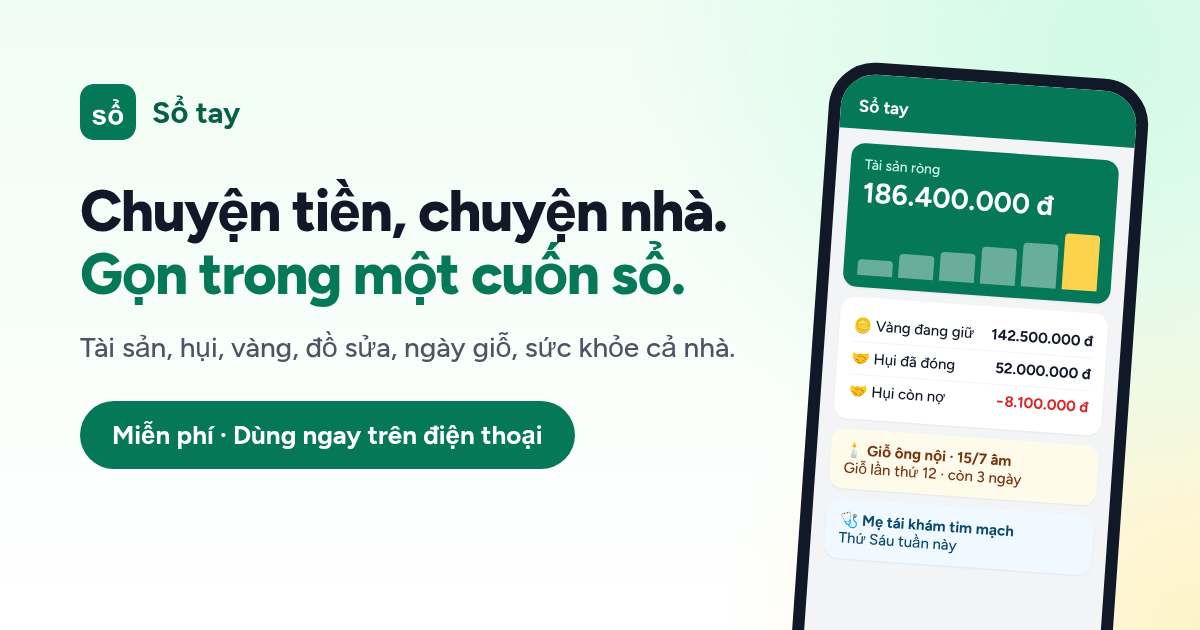
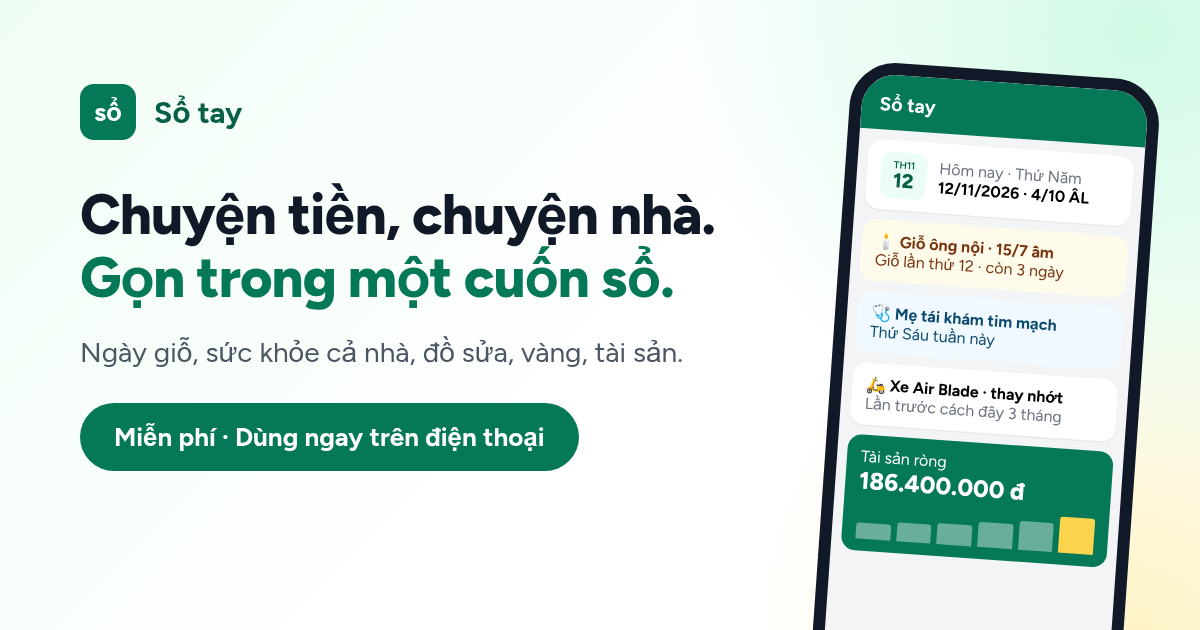
Trang chủ Sổ tay: đưa ngày nhớ, sức khỏe lên trước, bớt chữ hụi
- Giới thiệu, ảnh điện thoại đầu trang và ảnh chia sẻ: bỏ dòng hụi, thêm hôm nay âm lịch, giỗ, tái khám, sửa xe
- Các cuốn sổ mở sẵn Ngày nhớ, Hụi xếp cuối; FAQ và bước 2 không còn nhắc hụi
- Tiêu đề, mô tả SEO, manifest và câu xóa tài khoản dùng chữ chung

diff --git a/resources/views/welcome.blade.php b/resources/views/welcome.blade.php
@@ -1,16 +1,16 @@
 @php
     /** @var array<string, string> $lunarLookup */
     $brand = config('app.name');
-    $title = $brand.' · Sổ tay tài chính & gia đình: tài sản, hụi, vàng, ngày giỗ, sức khỏe';
-    $description = 'Ứng dụng miễn phí ghi chép việc nhà: tổng tài sản, sổ hụi, sổ vàng, sửa chữa đồ dùng, ngày giỗ theo âm lịch và sức khỏe cả nhà. Tự tính, tự nhắc qua email.';
+    $title = $brand.' · Sổ tay gia đình: ngày giỗ âm lịch, sức khỏe, sửa chữa, vàng, tài sản';
+    $description = 'Ứng dụng miễn phí ghi chép việc nhà: ngày giỗ theo âm lịch, sức khỏe cả nhà, sửa chữa đồ dùng, vàng và tổng tài sản. Tự tính, tự nhắc qua email.';
 
     // Các cuốn sổ trong phần "Mỗi việc một cuốn sổ": khóa tab, tên, ba điểm chính.
     $books = [
-        'hui' => ['🤝', 'Hụi', [['✅', 'Kỳ này đóng bao nhiêu'], ['📈', 'Hốt kỳ nào thì lời'], ['👥', 'Chủ hụi: biết ngay ai chưa đóng']]],
-        'vang' => ['🪙', 'Vàng', [['⚖', 'Ghi theo chỉ, từng món'], ['💹', 'Nhập giá tiệm, biết lời lỗ'], ['🧾', 'Bán một phần, vốn vẫn khớp']]],
-        'sua' => ['🔧', 'Sửa chữa', [['🛵', 'Xe, điện thoại, laptop...'], ['⏱', 'Món thay dùng được bao lâu'], ['📷', 'Giữ ảnh hóa đơn, hạn bảo hành']]],
         'ngay' => ['🕯', 'Ngày nhớ', [['🌙', 'Ngày âm tự đổi sang dương'], ['🔢', 'Tự đếm giỗ lần thứ mấy, tròn mấy tuổi'], ['📧', 'Nhắc trước, bạn chọn số ngày']]],
         'suc' => ['🩺', 'Sức khỏe', [['👨👩👧', 'Sổ riêng cho từng người'], ['📷', 'Giữ ảnh đơn thuốc, kết quả'], ['🔔', 'Nhắc ngày tái khám']]],
+        'sua' => ['🔧', 'Sửa chữa', [['🛵', 'Xe, điện thoại, laptop...'], ['⏱', 'Món thay dùng được bao lâu'], ['📷', 'Giữ ảnh hóa đơn, hạn bảo hành']]],
+        'vang' => ['🪙', 'Vàng', [['⚖', 'Ghi theo chỉ, từng món'], ['💹', 'Nhập giá tiệm, biết lời lỗ'], ['🧾', 'Bán một phần, vốn vẫn khớp']]],
+        'hui' => ['🤝', 'Hụi', [['✅', 'Kỳ này đóng bao nhiêu'], ['📈', 'Hốt kỳ nào thì lời'], ['👥', 'Chủ hụi: biết ngay ai chưa đóng']]],
     ];
 
     // Ngày âm hay tra: tên, ngày, tháng.
@@ -66,7 +66,7 @@
                             Chuyện tiền, chuyện nhà.<br>
                             <span class="text-emerald-700">Gọn trong một cuốn sổ.</span>
                         </h1>
-                        <p class="mt-4 text-lg text-gray-600">Tài sản, hụi, vàng, đồ sửa, ngày giỗ, sức khỏe cả nhà. App tự tính, tự đổi lịch âm, nhắc trước qua email.</p>
+                        <p class="mt-4 text-lg text-gray-600">Ngày giỗ, sức khỏe cả nhà, đồ sửa, vàng, tài sản. App tự tính, tự đổi lịch âm, nhắc trước qua email.</p>
                         <div class="mt-7 flex flex-col gap-3 sm:flex-row sm:justify-center md:justify-start">
                             <a href="{{ route('register') }}" class="rounded-full bg-emerald-700 px-7 py-3.5 text-center font-semibold text-white shadow-lg shadow-emerald-700/30 transition hover:-translate-y-0.5 hover:bg-emerald-800">Mở sổ miễn phí</a>
                             <a href="#cac-so" class="rounded-full border border-emerald-700 px-7 py-3.5 text-center font-semibold text-emerald-700 hover:bg-emerald-50">Xem có gì →</a>
@@ -74,7 +74,25 @@
                     </div>
 
                     <div class="animate-float">
-                        <x-landing.phone label="Trang tổng tài sản: tài sản ròng, biểu đồ theo tháng và ngày nhớ sắp tới">
+                        <x-landing.phone label="Sổ tay: hôm nay theo âm lịch, ngày giỗ, lịch tái khám và tài sản ròng">
+                            <div class="flex items-center gap-3 rounded-xl bg-white p-3 shadow-sm">
+                                <div class="flex h-10 w-10 shrink-0 flex-col items-center justify-center rounded-lg bg-emerald-50 text-emerald-800">
+                                    <span class="text-[9px] font-semibold">TH11</span><span class="font-bold leading-none">12</span>
+                                </div>
+                                <div><div class="text-gray-500">Hôm nay · Thứ Năm</div><div class="font-semibold">12/11/2026 · 4/10 ÂL</div></div>
+                            </div>
+                            <div class="rounded-xl bg-amber-50 p-3 text-amber-900">
+                                <div class="font-semibold">🕯 Giỗ ông nội · 15/7 âm</div>
+                                <div class="mt-0.5">Giỗ lần thứ 12 · còn 3 ngày</div>
+                            </div>
+                            <div class="rounded-xl bg-sky-50 p-3 text-sky-900">
+                                <div class="font-semibold">🩺 Mẹ tái khám tim mạch</div>
+                                <div class="mt-0.5">Thứ Sáu tuần này</div>
+                            </div>
+                            <div class="rounded-xl bg-white p-3 shadow-sm">
+                                <div class="font-semibold">🛵 Xe Air Blade · thay nhớt</div>
+                                <div class="mt-0.5 text-gray-500">Lần trước cách đây 3 tháng</div>
+                            </div>
                             <div class="rounded-xl bg-emerald-700 p-3 text-white">
                                 <div class="text-emerald-100">Tài sản ròng</div>
                                 <div class="text-xl font-bold">186.400.000 đ</div>
@@ -84,22 +102,6 @@
                                     @endforeach
                                 </div>
                                 <div class="mt-1 flex justify-between text-[10px] text-emerald-100"><span>Th6</span><span>Th11</span></div>
-                            </div>
-                            <ul class="divide-y divide-gray-100 rounded-xl bg-white shadow-sm">
-                                @foreach ([['🪙', 'Vàng đang giữ', '142.500.000 đ', 'text-gray-900'], ['🤝', 'Hụi đã đóng', '52.000.000 đ', 'text-gray-900'], ['🤝', 'Hụi còn nợ', '−8.100.000 đ', 'text-red-600']] as [$icon, $label, $amount, $color])
-                                    <li class="flex items-center justify-between px-3 py-2">
-                                        <span><span aria-hidden="true">{{ $icon }}</span> {{ $label }}</span>
-                                        <span class="font-semibold {{ $color }}">{{ $amount }}</span>
-                                    </li>
-                                @endforeach
-                            </ul>
-                            <div class="rounded-xl bg-amber-50 p-3 text-amber-900">
-                                <div class="font-semibold">🕯 Giỗ ông nội · 15/7 âm</div>
-                                <div class="mt-0.5">Giỗ lần thứ 12 · còn 3 ngày</div>
-                            </div>
-                            <div class="rounded-xl bg-sky-50 p-3 text-sky-900">
-                                <div class="font-semibold">🩺 Mẹ tái khám tim mạch</div>
-                                <div class="mt-0.5">Thứ Sáu tuần này</div>
                             </div>
                         </x-landing.phone>
                     </div>
@@ -123,7 +125,7 @@
             </section>
 
             {{-- 3. Các cuốn sổ: chuyển tab giữa các màn hình --}}
-            <section id="cac-so" class="mx-auto max-w-5xl scroll-mt-16 px-4 py-16" x-data="{ book: 'hui' }">
+            <section id="cac-so" class="mx-auto max-w-5xl scroll-mt-16 px-4 py-16" x-data="{ book: 'ngay' }">
                 <h2 class="text-center text-3xl font-bold">Mỗi việc một cuốn sổ</h2>
                 <p class="mt-2 text-center text-gray-600">Dùng cuốn nào mở cuốn đó. Tất cả gộp về trang Tổng.</p>
                 <div class="-mx-4 mt-6 overflow-x-auto px-4">
@@ -138,7 +140,7 @@
 
                 <div class="mt-10 grid items-center gap-10 md:grid-cols-2">
                     <div>
-                        <div x-show="book === 'hui'" x-transition.opacity.duration.300ms>
+                        <div x-show="book === 'hui'" x-cloak x-transition.opacity.duration.300ms>
                             <x-landing.phone label="Sổ hụi: chi tiết một dây hụi">
                                 <div class="rounded-xl bg-white p-3 shadow-sm">
                                     <div class="font-semibold">Hụi 1tr cô Hoa</div>
@@ -196,7 +198,7 @@
                             </x-landing.phone>
                         </div>
 
-                        <div x-show="book === 'ngay'" x-cloak x-transition.opacity.duration.300ms>
+                        <div x-show="book === 'ngay'" x-transition.opacity.duration.300ms>
                             <x-landing.phone label="Ngày nhớ: giỗ, sinh nhật, kỷ niệm sắp tới">
                                 <ul class="space-y-2">
                                     @foreach ([['🕯', 'Giỗ ông nội', '15/7 âm · Giỗ lần thứ 12', 'còn 3 ngày', 'bg-amber-100 text-amber-800'], ['🎂', 'Sinh nhật bé Na', '20/11 · Tròn 6 tuổi', 'còn 8 ngày', 'bg-emerald-100 text-emerald-800'], ['💍', 'Kỷ niệm ngày cưới', '10/12 · 10 năm', 'còn 28 ngày', 'bg-gray-100 text-gray-600'], ['🕯', 'Giỗ bà ngoại', '8/11 âm · Giỗ lần thứ 5', 'còn 35 ngày', 'bg-gray-100 text-gray-600']] as [$icon, $name, $detail, $left, $badge])
@@ -293,7 +295,7 @@
             <section class="mx-auto max-w-5xl px-4 py-16">
                 <h2 class="text-center text-3xl font-bold">3 bước là xong</h2>
                 <ol class="mt-10 grid gap-4 md:grid-cols-3">
-                    @foreach ([['1', '📝', 'Tạo tài khoản', '30 giây, miễn phí'], ['2', '📚', 'Mở cuốn sổ cần dùng', 'Hụi, vàng, gia đình...'], ['3', '🔔', 'Ghi một lần', 'App tự tính, tự nhắc']] as [$number, $icon, $heading, $sub])
+                    @foreach ([['1', '📝', 'Tạo tài khoản', '30 giây, miễn phí'], ['2', '📚', 'Mở cuốn sổ cần dùng', 'Ngày nhớ, sức khỏe, vàng...'], ['3', '🔔', 'Ghi một lần', 'App tự tính, tự nhắc']] as [$number, $icon, $heading, $sub])
                         <li class="relative rounded-3xl bg-emerald-50 p-6 text-center">
                             <span class="absolute left-4 top-4 flex h-8 w-8 items-center justify-center rounded-full bg-emerald-700 text-sm font-bold text-white">{{ $number }}</span>
                             <div class="text-5xl" aria-hidden="true">{{ $icon }}</div>
@@ -313,7 +315,7 @@
                         ['Ai xem được sổ của tôi?', 'Chỉ bạn. Mỗi tài khoản chỉ thấy dữ liệu của chính mình.'],
                         ['Có phải cài app không?', 'Không. Mở trên trình duyệt điện thoại, bấm "Thêm vào màn hình chính" là dùng như app.'],
                         ['Ngày giỗ theo âm lịch có tính đúng không?', 'Có. App đổi ngày âm sang dương theo giờ Việt Nam mỗi năm. Năm có tháng nhuận vẫn lấy tháng thường, đúng tục cúng giỗ.'],
-                        ['Tôi làm chủ hụi thì sao?', 'Có sổ riêng cho chủ hụi: ghi hụi viên, thu tiền 1 chạm, tự tính tiền chi và thảo.'],
+                        ['Tôi chỉ cần ghi ngày giỗ thôi được không?', 'Được. Mỗi việc một cuốn sổ riêng, cần cuốn nào dùng cuốn đó, không phải điền hết.'],
                     ] as [$question, $answer])
                         <details class="group rounded-2xl bg-gray-50 p-4 [&_summary::-webkit-details-marker]:hidden">
                             <summary class="flex cursor-pointer items-center justify-between font-semibold">
@@ -335,7 +337,7 @@
         </main>
 
         <footer class="px-4 py-6 text-center text-xs text-gray-400">
-            © {{ date('Y') }} {{ $brand }} · Công cụ ghi chép cá nhân, không nhận giữ tiền hay tổ chức hụi.
+            © {{ date('Y') }} {{ $brand }} · Công cụ ghi chép cá nhân, không nhận giữ tiền.
             · <a href="{{ route('privacy') }}" class="underline hover:text-gray-600">Chính sách bảo mật</a>
         </footer>
 
